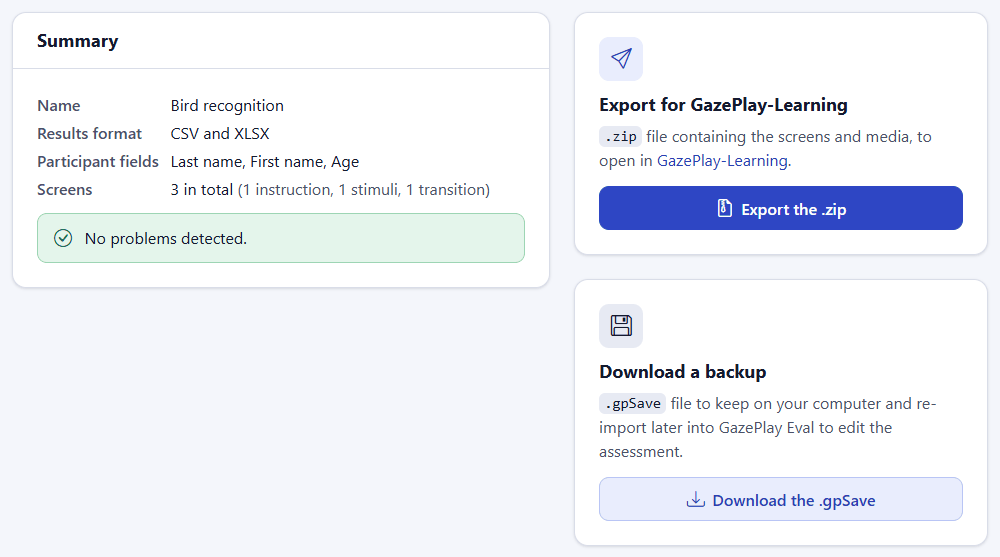
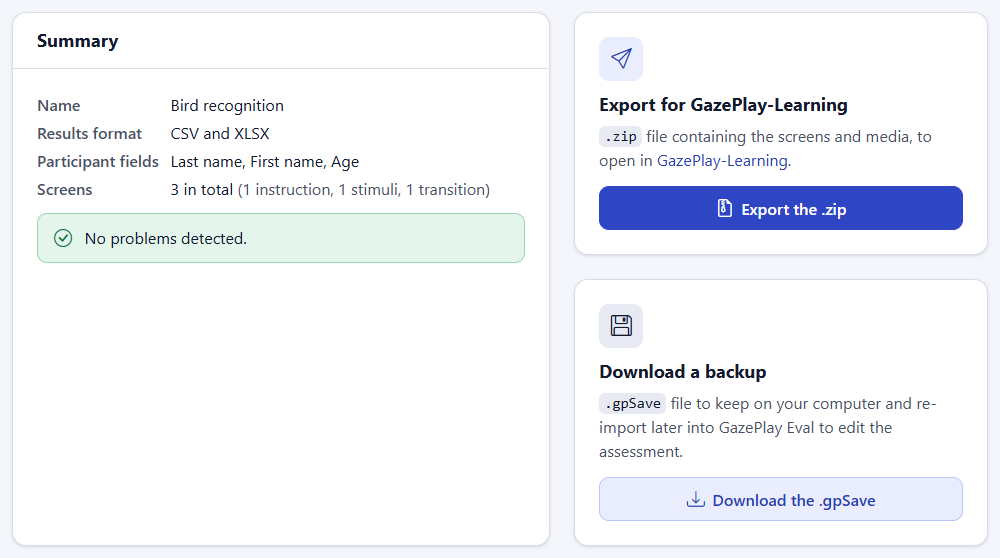
Guide : mise à jour (lexique, fichiers incompatibles) et nouvelles captures
- accueil du guide : section « Le lexique » et menu décrit avec le Lexique ;
- création, importation, dépannage : alerte persistante, aperçu des écrans
  et confirmation de l'export .zip décrits ;
- captures refaites (accueil, étape 5) et ajoutées (lexique, aperçu d'un
  écran avec un fichier incompatible), en français et en anglais ;
- guide affiché en largeur standard (64rem) au lieu de la largeur étroite ;
- liste des écrans : triangle seul devant le nom (libellé en info-bulle et
  pour les lecteurs d'écran) au lieu d'un texte sur plusieurs lignes.

diff --git a/src/app/pages/guide/guide-home/guide-home.component.html b/src/app/pages/guide/guide-home/guide-home.component.html
@@ -25,6 +25,7 @@
         <app-guide-toc title="On this page" page="/guide" [items]="[
           {id: 'interface', label: 'Getting to know the interface'},
           {id: 'first-steps', label: 'Creating your first assessment in 5 steps'},
+          {id: 'glossary', label: 'The glossary'},
           {id: 'guide-pages', label: 'Guide pages'}
         ]"></app-guide-toc>
       </div>
@@ -34,7 +35,7 @@
         <div class="guide-section-body">
           <figure class="guide-figure">
             <img src="assets/guide/images/en/home-page.png" width="1280" height="760" loading="lazy"
-                 alt="Home page of GazePlay-Eval. At the top, the header with the Help, theme and language buttons. On the left, the menu with Home, Guide, Options, My saves, Load and Import a file. In the centre, the New assessment and Read the guide buttons, the Assessment in progress card and shortcuts to the saves.">
+                 alt="Home page of GazePlay-Eval. At the top, the header with the Help, theme and language buttons. On the left, the menu with Home, Guide, Glossary, Options, My saves, Load and Import a file. In the centre, the New assessment and Read the guide buttons, the Assessment in progress card and shortcuts to the saves.">
             <figcaption>
               The home page, with the header (top), the menu (left) and the assessment in progress (right).
               <a class="guide-figure__zoom" href="assets/guide/images/en/home-page.png" target="_blank" rel="noopener">View full size (new tab)</a>
@@ -109,6 +110,30 @@
         </div>
       </section>
 
+      <section class="guide-section-card" id="glossary" aria-labelledby="glossary-title">
+        <h2 class="guide-section-title" id="glossary-title">The glossary</h2>
+        <div class="guide-section-body">
+          <p>Not sure what <em>stimulus</em>, <em>fixation duration</em> or <code>.gpSave</code> means? The
+            <a routerLink="/lexique">Glossary</a> page, in the menu between Guide and Options, explains the terms used
+            in the application.</p>
+          <figure class="guide-figure">
+            <img src="assets/guide/images/en/lexique-page.png" width="1280" height="760" loading="lazy"
+                 alt="Glossary page. A Search for a term field, the number of terms and buttons for each letter, then the terms of the letter A in cards, each with its explanation, See also links and a Learn more in the guide link.">
+            <figcaption>
+              The glossary: search field, access by letter and explained terms.
+              <a class="guide-figure__zoom" href="assets/guide/images/en/lexique-page.png" target="_blank" rel="noopener">View full size (new tab)</a>
+            </figcaption>
+          </figure>
+          <ul class="guide-list">
+            <li><strong>Search for a term</strong>: the cursor is already in this field when the page opens. The search
+              covers the terms and their explanations, ignoring accents and capital letters.</li>
+            <li><strong>Letters</strong>: go straight to the terms beginning with a letter.</li>
+            <li><strong>See also</strong> leads to related terms, and <strong>Learn more in the guide</strong> to the
+              guide section that covers the subject.</li>
+          </ul>
+        </div>
+      </section>
+
       <section class="guide-section-card" id="guide-pages" aria-labelledby="guide-pages-title">
         <h2 class="guide-section-title" id="guide-pages-title">Guide pages</h2>
         <div class="guide-section-body">
@@ -172,6 +197,7 @@
         <app-guide-toc title="Sur cette page" page="/guide" [items]="[
           {id: 'interface', label: 'Découvrir l\'interface'},
           {id: 'first-steps', label: 'Créer une première évaluation en 5 étapes'},
+          {id: 'glossary', label: 'Le lexique'},
           {id: 'guide-pages', label: 'Les pages du guide'}
         ]"></app-guide-toc>
       </div>
@@ -181,7 +207,7 @@
         <div class="guide-section-body">
           <figure class="guide-figure">
             <img src="assets/guide/images/fr/home-page.png" width="1280" height="760" loading="lazy"
-                 alt="Page d'accueil de GazePlay-Eval. En haut, l'en-tête avec les boutons Aide, thème et langue. À gauche, le menu avec Accueil, Guide, Options, Mes sauvegardes, Charger et Importer un fichier. Au centre, les boutons Nouvelle évaluation et Lire le guide, la carte Évaluation en cours et les raccourcis vers les sauvegardes.">
+                 alt="Page d'accueil de GazePlay-Eval. En haut, l'en-tête avec les boutons Aide, thème et langue. À gauche, le menu avec Accueil, Guide, Lexique, Options, Mes sauvegardes, Charger et Importer un fichier. Au centre, les boutons Nouvelle évaluation et Lire le guide, la carte Évaluation en cours et les raccourcis vers les sauvegardes.">
             <figcaption>
               La page d'accueil, avec l'en-tête (en haut), le menu (à gauche) et l'évaluation en cours (à droite).
               <a class="guide-figure__zoom" href="assets/guide/images/fr/home-page.png" target="_blank" rel="noopener">Voir en grand (nouvel onglet)</a>
@@ -255,6 +281,30 @@
                 (voir <a routerLink="/guide/sauvegardes">Sauvegarde et chargement</a>).</p>
             </div>
           </div>
+        </div>
+      </section>
+
+      <section class="guide-section-card" id="glossary" aria-labelledby="glossary-title">
+        <h2 class="guide-section-title" id="glossary-title">Le lexique</h2>
+        <div class="guide-section-body">
+          <p>Un doute sur ce qu'est un <em>stimulus</em>, une <em>durée de fixation</em> ou un fichier
+            <code>.gpSave</code> ? La page <a routerLink="/lexique">Lexique</a>, dans le menu entre Guide et Options,
+            explique les termes employés dans l'application.</p>
+          <figure class="guide-figure">
+            <img src="assets/guide/images/fr/lexique-page.png" width="1280" height="760" loading="lazy"
+                 alt="Page Lexique. Un champ Rechercher un terme, le nombre de termes et un bouton par lettre, puis les termes de la lettre B en cartes, chacun avec son explication, des liens Voir aussi et un lien En savoir plus dans le guide.">
+            <figcaption>
+              Le lexique : recherche, accès par lettre et termes expliqués.
+              <a class="guide-figure__zoom" href="assets/guide/images/fr/lexique-page.png" target="_blank" rel="noopener">Voir en grand (nouvel onglet)</a>
+            </figcaption>
+          </figure>
+          <ul class="guide-list">
+            <li><strong>Rechercher un terme</strong> : le curseur est déjà dans ce champ à l'ouverture de la page. La
+              recherche porte sur les termes et leurs explications, sans tenir compte des accents ni des majuscules.</li>
+            <li><strong>Lettres</strong> : accès direct aux termes qui commencent par une lettre.</li>
+            <li><strong>Voir aussi</strong> mène aux termes proches, et <strong>En savoir plus dans le guide</strong> à la
+              section du guide qui traite le sujet.</li>
+          </ul>
         </div>
       </section>
 

diff --git a/src/app/pages/guide/guide-import/guide-import.component.html b/src/app/pages/guide/guide-import/guide-import.component.html
@@ -70,7 +70,9 @@
           <li>Go to step 5, <strong>Download and export</strong> (button <strong>Next: export</strong> at step 4).</li>
           <li>Check the <strong>Summary</strong> and any <strong>Points to check</strong>.</li>
           <li>Click <strong>Export the .zip</strong> to get the file for GazePlay-Learning, and/or
-            <strong>Download the .gpSave</strong> to keep a backup. The file is saved where your browser stores its downloads.</li>
+            <strong>Download the .gpSave</strong> to keep a backup. The file is saved where your browser stores its downloads.
+            If the assessment contains files that GazePlay-Learning cannot read, a confirmation is asked before exporting
+            the <code>.zip</code>.</li>
         </ol>
         <p>An assessment already stored in a slot can also be downloaded as <code>.gpSave</code> from
           <a routerLink="/sauvegarde">My saves</a>, without opening it.</p>
@@ -92,7 +94,7 @@
         <ol class="guide-steps">
           <li><strong>1. File to import</strong>: drag a file onto the area, or click <strong>Browse…</strong>. The
             <code>.gpSave</code> and <code>.zip</code> files exported by GazePlay-Eval are accepted. Files in a format
-            GazePlay-Learning cannot read are kept and listed in a message after the import.</li>
+            GazePlay-Learning cannot read are kept and listed in an alert after the import.</li>
           <li><strong>2. What do you want to do?</strong>
             <ul class="guide-list">
               <li><strong>Open</strong>: opens the assessment without storing it in a slot.</li>
@@ -135,6 +137,9 @@
         <p>A message confirms the import (“The assessment “…” has been imported.”) and the assessment opens at step 1,
           <strong>Assessment information</strong>. It is now the assessment in progress, saved automatically like any
           other.</p>
+        <p>If it contains files that GazePlay-Learning cannot read, an alert lists them. It stays on screen until you
+          close it with its cross, and appears again each time the assessment is opened or resumed, as long as these
+          files have not been replaced.</p>
         <ul class="guide-list">
           <li>With <strong>Open</strong>, it is not in a slot: save it from <a routerLink="/sauvegarde">My saves</a> if
             you want to keep it, because the next new or opened assessment will replace it.</li>
@@ -223,7 +228,8 @@
           <li>Vérifiez le <strong>Récapitulatif</strong> et les éventuels <strong>Points à vérifier</strong>.</li>
           <li>Cliquez sur <strong>Exporter le .zip</strong> pour obtenir le fichier destiné à GazePlay-Learning, et/ou
             sur <strong>Télécharger le .gpSave</strong> pour garder une sauvegarde. Le fichier est enregistré là où votre
-            navigateur range ses téléchargements.</li>
+            navigateur range ses téléchargements. Si l'évaluation contient des fichiers que GazePlay-Learning ne lit pas,
+            une confirmation est demandée avant l'export du <code>.zip</code>.</li>
         </ol>
         <p>Une évaluation déjà rangée dans un emplacement peut aussi être téléchargée en <code>.gpSave</code> depuis
           <a routerLink="/sauvegarde">Mes sauvegardes</a>, sans l'ouvrir.</p>
@@ -246,7 +252,7 @@
           <li><strong>1. Fichier à importer</strong> : glissez un fichier dans la zone, ou cliquez sur
             <strong>Parcourir…</strong>. Les fichiers <code>.gpSave</code> et <code>.zip</code> exportés par
             GazePlay-Eval sont acceptés. Les fichiers dans un format que GazePlay-Learning ne lit pas sont conservés et
-            listés dans un message après l'import.</li>
+            listés dans une alerte après l'import.</li>
           <li><strong>2. Que voulez-vous faire ?</strong>
             <ul class="guide-list">
               <li><strong>Ouvrir</strong> : ouvre l'évaluation sans l'enregistrer dans un emplacement.</li>
@@ -290,6 +296,9 @@
         <p>Un message confirme l'importation (« L'évaluation « … » a été importée. ») et l'évaluation s'ouvre à
           l'étape 1, <strong>Informations de l'évaluation</strong>. C'est désormais l'évaluation en cours, enregistrée
           automatiquement comme les autres.</p>
+        <p>Si elle contient des fichiers que GazePlay-Learning ne lit pas, une alerte les liste. Elle reste affichée
+          jusqu'à ce que vous la fermiez avec sa croix, et réapparaît à chaque ouverture ou reprise de l'évaluation tant
+          que ces fichiers n'ont pas été remplacés.</p>
         <ul class="guide-list">
           <li>Avec <strong>Ouvrir</strong>, elle n'est dans aucun emplacement : rangez-la depuis
             <a routerLink="/sauvegarde">Mes sauvegardes</a> si vous voulez la garder, car la prochaine évaluation créée ou

diff --git a/src/app/pages/guide/guide-creation/guide-creation.component.html b/src/app/pages/guide/guide-creation/guide-creation.component.html
@@ -178,6 +178,9 @@
           <li><strong>Add a screen</strong>: the <strong>Instruction</strong>, <strong>Stimuli</strong> and
             <strong>Transition</strong> buttons add a screen at the end of the list, pre-filled with the global settings.</li>
           <li>Click a screen to see its preview on the right; double-click it (or use <strong>Edit this screen</strong>) to edit it.</li>
+          <li>A screen containing files that GazePlay-Learning cannot read shows a yellow triangle in front of its name.
+            Its preview lists these files, marks the cells concerned with a triangle and does not play these sounds or
+            videos (see <a routerLink="/guide/depannage" fragment="export-blocked">Troubleshooting</a>).</li>
           <li>Next to each screen: <i class="bi bi-arrow-up" aria-hidden="true"></i> <strong>Move up</strong> /
             <i class="bi bi-arrow-down" aria-hidden="true"></i> <strong>Move down</strong> (or drag it by its handle),
             <i class="bi bi-pencil" aria-hidden="true"></i> <strong>Rename</strong> (confirm with <kbd>Enter</kbd>),
@@ -317,7 +320,7 @@
       <h2 class="guide-section-title" id="download-eval-title">Step 5 — Download and export</h2>
       <div class="guide-section-body">
         <figure class="guide-figure">
-          <img src="assets/guide/images/en/download-page.png" width="1000" height="557" loading="lazy"
+          <img src="assets/guide/images/en/download-page.png" width="1000" height="558" loading="lazy"
                alt="Download and export page: on the left, the Summary with the name, the results format, the participant fields and the number of screens, followed by No problems detected; on the right, the Export the .zip and Download the .gpSave buttons.">
           <figcaption>The summary and the two files you can get.</figcaption>
         </figure>
@@ -539,6 +542,9 @@
             <strong>Transition</strong> ajoutent un écran à la fin de la liste, pré-rempli avec les paramètres globaux.</li>
           <li>Cliquez sur un écran pour voir son aperçu à droite ; double-cliquez dessus (ou utilisez
             <strong>Modifier cet écran</strong>) pour le modifier.</li>
+          <li>Un écran qui contient des fichiers que GazePlay-Learning ne lit pas porte un triangle jaune devant son
+            nom. Son aperçu liste ces fichiers, signale les cases concernées par un triangle et ne lit pas ces sons ni
+            ces vidéos (voir <a routerLink="/guide/depannage" fragment="export-blocked">Dépannage</a>).</li>
           <li>À côté de chaque écran : <i class="bi bi-arrow-up" aria-hidden="true"></i> <strong>Monter</strong> /
             <i class="bi bi-arrow-down" aria-hidden="true"></i> <strong>Descendre</strong> (ou glisser-déposer par la poignée),
             <i class="bi bi-pencil" aria-hidden="true"></i> <strong>Renommer</strong> (validez avec <kbd>Entrée</kbd>),
@@ -680,7 +686,7 @@
       <h2 class="guide-section-title" id="download-eval-title">Étape 5 — Téléchargement et export</h2>
       <div class="guide-section-body">
         <figure class="guide-figure">
-          <img src="assets/guide/images/fr/download-page.png" width="1000" height="557" loading="lazy"
+          <img src="assets/guide/images/fr/download-page.png" width="1000" height="558" loading="lazy"
                alt="Page Téléchargement et export : à gauche, le Récapitulatif avec le nom, le format des résultats, les champs participant et le nombre d'écrans, suivi de Aucun problème détecté ; à droite, les boutons Exporter le .zip et Télécharger le .gpSave.">
           <figcaption>Le récapitulatif et les deux fichiers que vous pouvez récupérer.</figcaption>
         </figure>

diff --git a/src/app/pages/guide/guide-depannage/guide-depannage.component.html b/src/app/pages/guide/guide-depannage/guide-depannage.component.html
@@ -79,6 +79,14 @@
           it stays until you close it. Step 5 lists each file with its screen. At step 4, a yellow triangle marks the cells
           concerned: replace each file with an accepted one. The <code>.zip</code> can still be exported, after a
           confirmation; the <code>.gpSave</code> is not affected.</p>
+        <figure class="guide-figure">
+          <img src="assets/guide/images/en/unsupported-preview.png" width="1000" height="526" loading="lazy"
+               alt="Screen creation page. In the list, the Butterfly grid screen has a yellow triangle in front of its name. On the right, its preview shows the message Files not read by GazePlay-Learning: papillon.svg. Edit the screen to replace them, and the butterfly cell carries a yellow triangle.">
+          <figcaption>
+            At step 4, the screen concerned and its preview.
+            <a class="guide-figure__zoom" href="assets/guide/images/en/unsupported-preview.png" target="_blank" rel="noopener">View full size (new tab)</a>
+          </figcaption>
+        </figure>
       </div>
     </section>
 
@@ -277,6 +285,14 @@
           l'évaluation ; elle reste affichée jusqu'à ce que vous la fermiez. L'étape 5 liste chaque fichier avec son écran. À l'étape 4, un triangle jaune
           signale les cases concernées : remplacez chaque fichier par un fichier accepté. Le <code>.zip</code> peut tout de
           même être exporté, après confirmation ; le <code>.gpSave</code> n'est pas concerné.</p>
+        <figure class="guide-figure">
+          <img src="assets/guide/images/fr/unsupported-preview.png" width="1000" height="526" loading="lazy"
+               alt="Page Création des écrans. Dans la liste, l'écran Grille des papillons porte un triangle jaune devant son nom. À droite, son aperçu affiche le message Fichiers non lus par GazePlay-Learning : papillon.svg. Modifiez l'écran pour les remplacer, et la case du papillon porte un triangle jaune.">
+          <figcaption>
+            À l'étape 4, l'écran concerné et son aperçu.
+            <a class="guide-figure__zoom" href="assets/guide/images/fr/unsupported-preview.png" target="_blank" rel="noopener">Voir en grand (nouvel onglet)</a>
+          </figcaption>
+        </figure>
       </div>
     </section>
 

diff --git a/src/app/pages/create-eval/create-eval.component.html b/src/app/pages/create-eval/create-eval.component.html
@@ -60,16 +60,18 @@
                         [attr.aria-current]="screen === selectedScreen ? 'true' : null"
                         (click)="selectScreen(screen, i)"
                         (dblclick)="editScreen(screen, i)">
-                  <span class="screen-item__name gp-truncate">{{ screen.name || ('createEval.unnamed' | t) }}</span>
+                  <span class="screen-item__title">
+                    @if (unsupportedMediaNames(screen).length > 0) {
+                      <i class="bi bi-exclamation-triangle-fill screen-item__warning" aria-hidden="true" [title]="'createEval.screenUnsupported' | t"></i>
+                    }
+                    <span class="screen-item__name gp-truncate">{{ screen.name || ('createEval.unnamed' | t) }}</span>
+                  </span>
                   <span class="screen-item__meta">
                     <i class="bi" [class]="typeIcon(screen.type)" aria-hidden="true"></i>
                     {{ typeLabel(screen.type) }} · {{ screenSummary(screen) }}
                   </span>
                   @if (unsupportedMediaNames(screen).length > 0) {
-                    <span class="screen-item__warning">
-                      <i class="bi bi-exclamation-triangle-fill" aria-hidden="true"></i>
-                      {{ 'createEval.screenUnsupported' | t }}
-                    </span>
+                    <span class="visually-hidden">, {{ 'createEval.screenUnsupported' | t }}</span>
                   }
                 </button>
               }

diff --git a/src/app/pages/create-eval/create-eval.component.spec.ts b/src/app/pages/create-eval/create-eval.component.spec.ts
@@ -332,6 +332,9 @@ describe('CreateEvalComponent', () => {
 
     expect(el.querySelector('#preview-unsupported')?.textContent).toContain('papillon.svg, miaou.m4a');
     expect(el.querySelector('.screen-item__warning')).not.toBeNull();
+    // Triangle seul dans la liste (colonne étroite) ; texte complet pour les lecteurs d'écran et en info-bulle.
+    expect(el.querySelector('#screen-select-0')?.textContent).toContain('Fichiers non lus par GazePlay-Learning');
+    expect(el.querySelector('.screen-item__warning')?.getAttribute('title')).toBe('Fichiers non lus par GazePlay-Learning');
   });
 
   it('aperçu — écran sans fichier incompatible → ni triangle ni avertissement', () => {

diff --git a/src/app/pages/create-eval/create-eval.component.css b/src/app/pages/create-eval/create-eval.component.css
@@ -96,14 +96,17 @@
   max-width: 100%;
   font-weight: 700;
 }
-.screen-item__warning {
+.screen-item__title {
   display: flex;
   align-items: center;
   gap: var(--gp-space-1);
-  font-size: var(--gp-text-xs);
+  max-width: 100%;
+  min-width: 0;
 }
-.screen-item__warning .bi {
+.screen-item__warning {
+  flex-shrink: 0;
   color: var(--gp-warning);
+  font-size: var(--gp-text-sm);
 }
 .screen-item__meta {
   max-width: 100%;

diff --git a/src/app/pages/guide/guide.component.html b/src/app/pages/guide/guide.component.html
@@ -1,4 +1,4 @@
-<div class="gp-page gp-page--narrow">
+<div class="gp-page">
   <router-outlet></router-outlet>
 </div>
 <button type="button"
